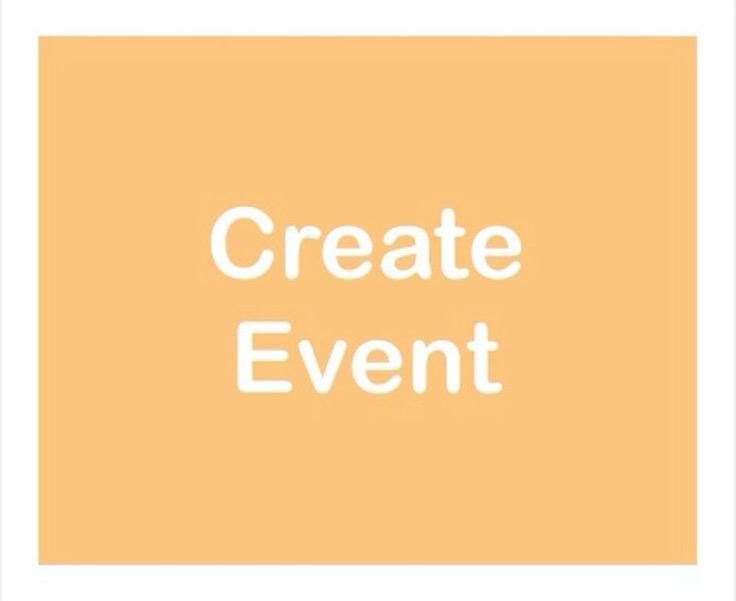
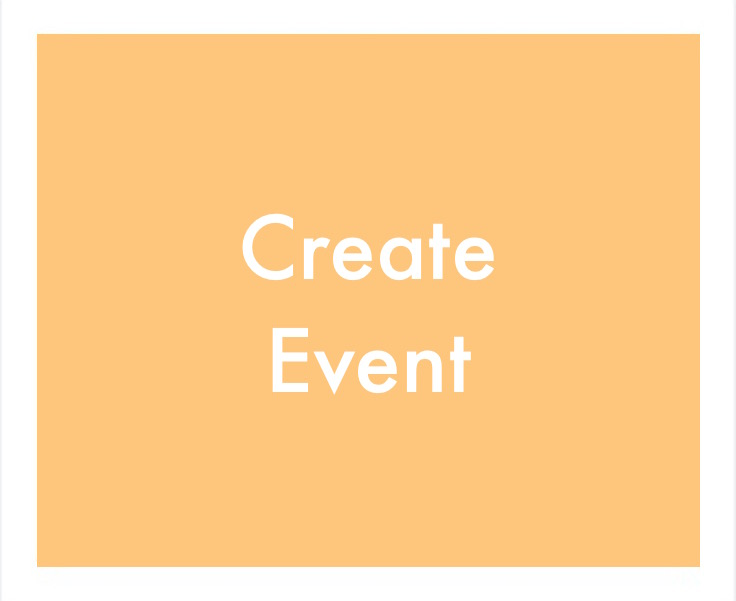
Remastered the button images for Admin

diff --git a/CSCI201_FinalProject_EventManager/src/gui/AdminLoginPanel.java b/CSCI201_FinalProject_EventManager/src/gui/AdminLoginPanel.java
@@ -148,7 +148,6 @@ class AdminMainPanel extends JFrame {
 	JButton manageEventButton;
 	JButton createEventButton;
 	JButton profileButton;
-	JButton inboxButton;
 
 	AdminMainPanel() {
 		super("Admin HomePage");
